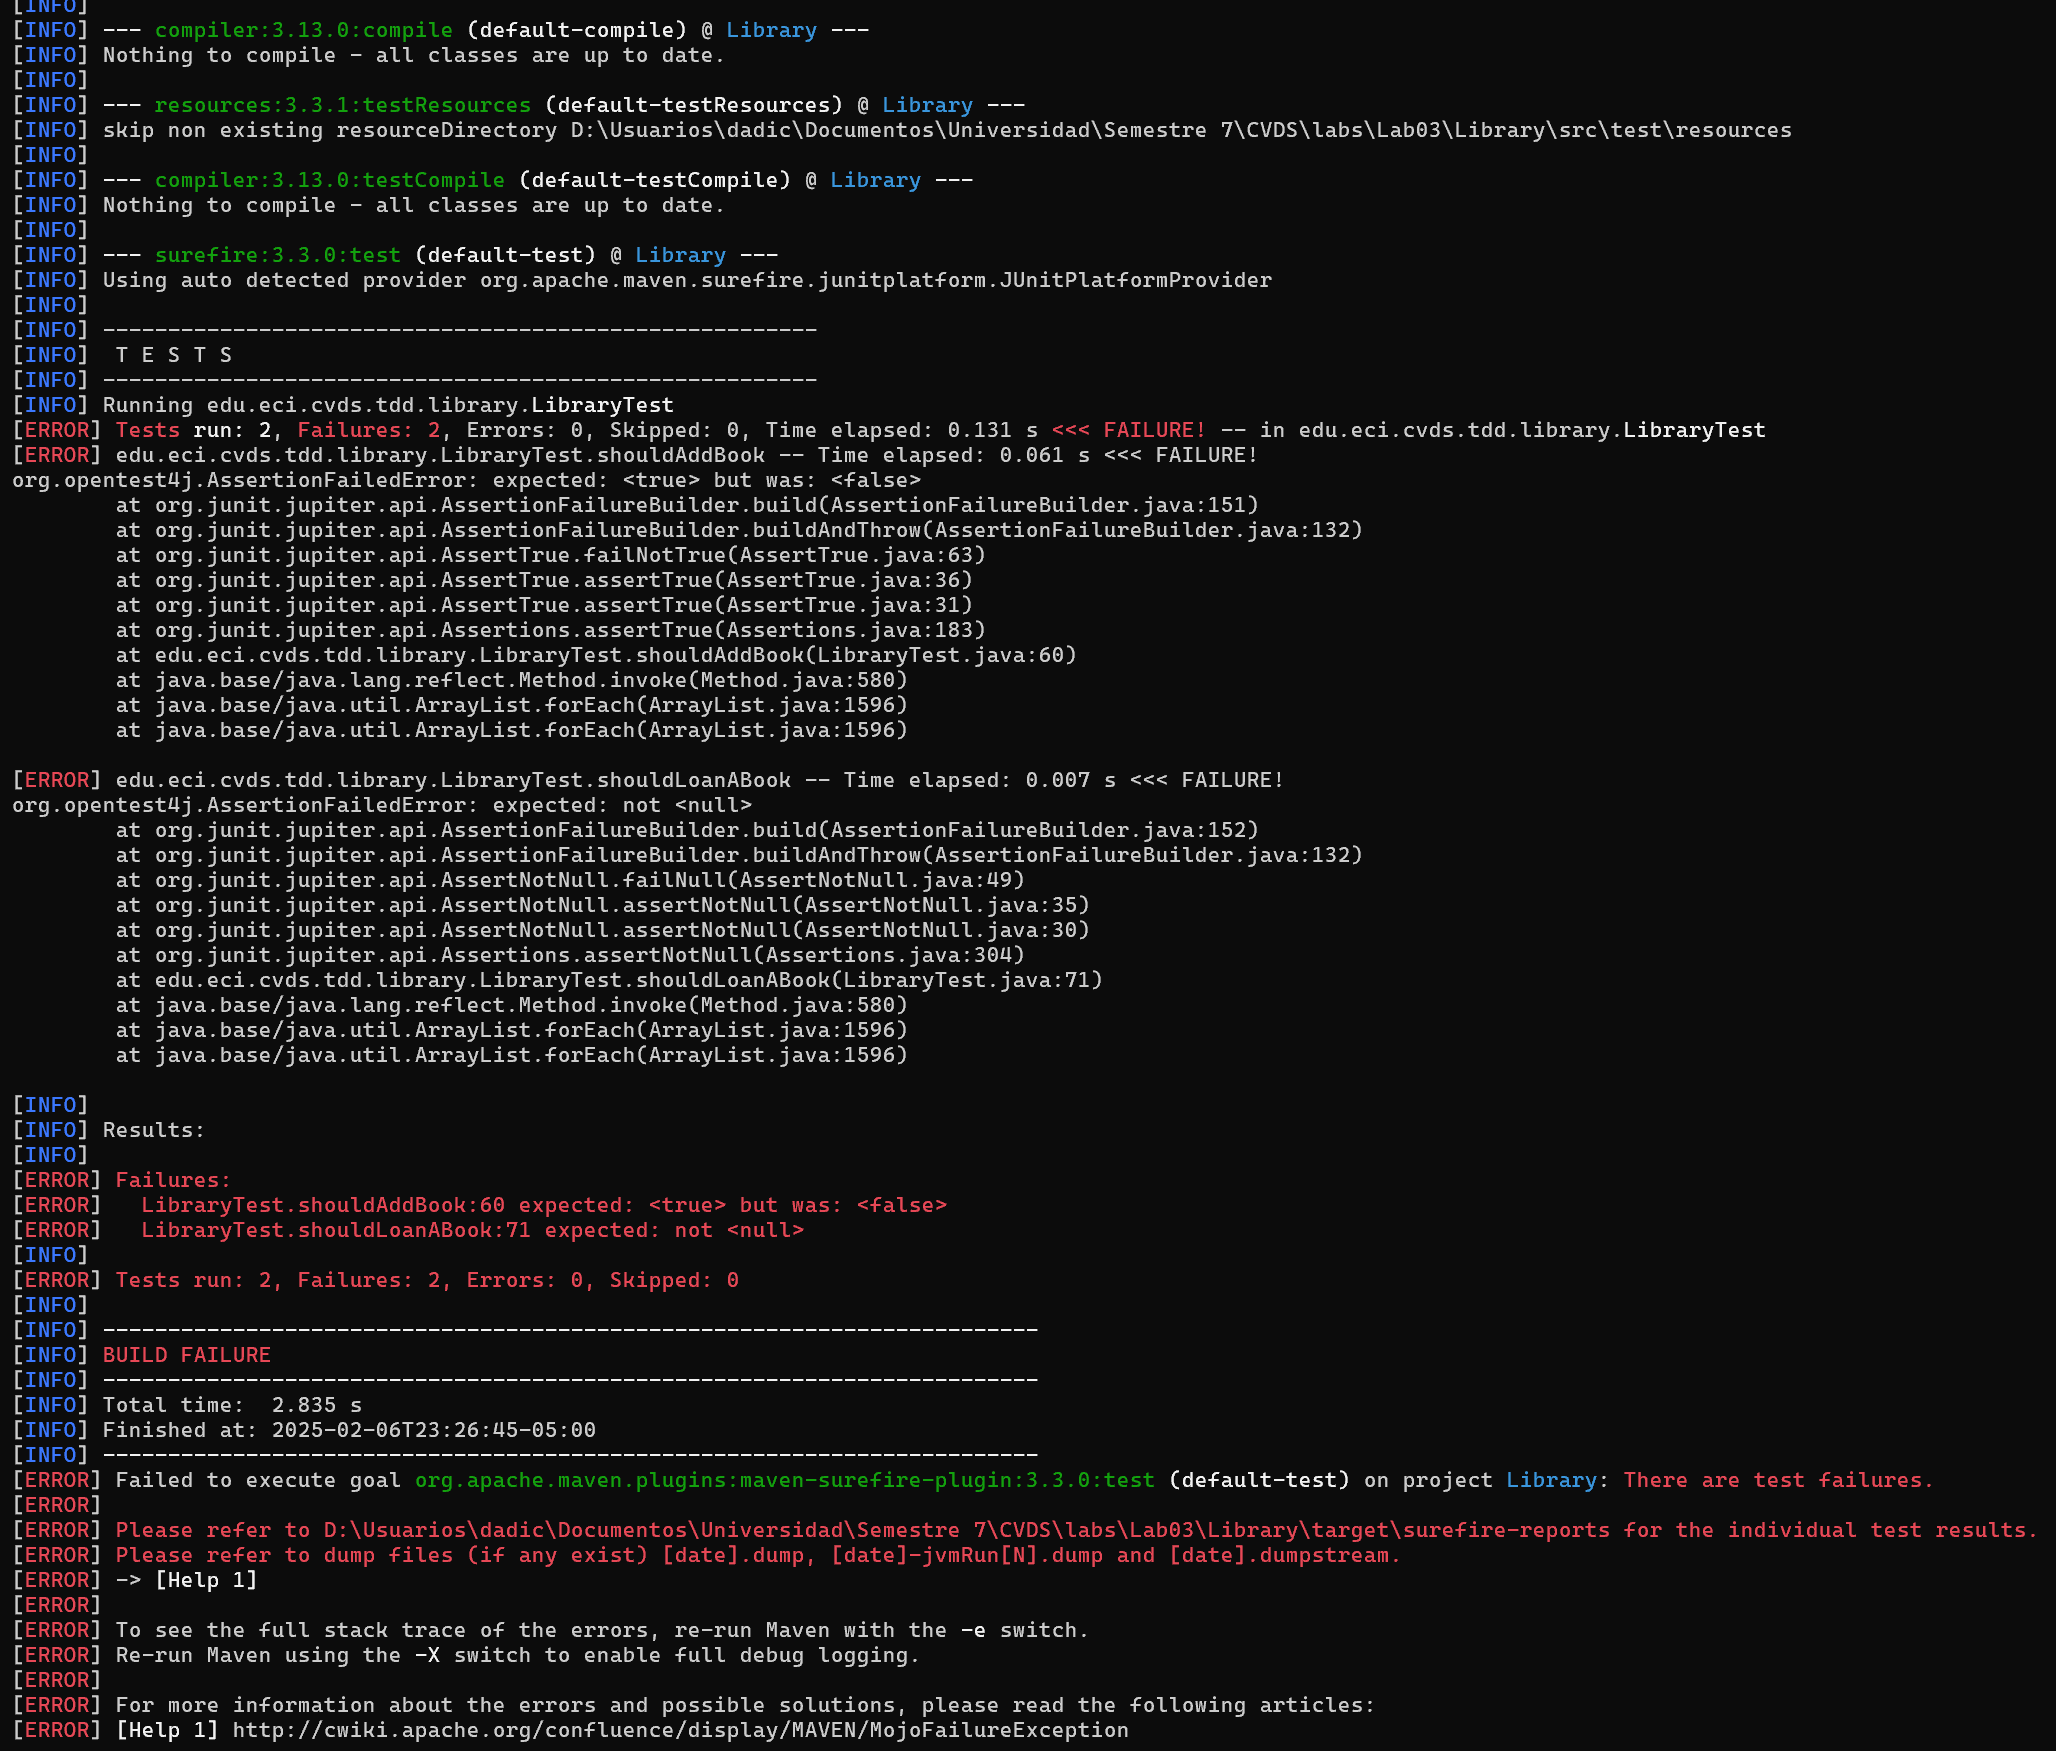
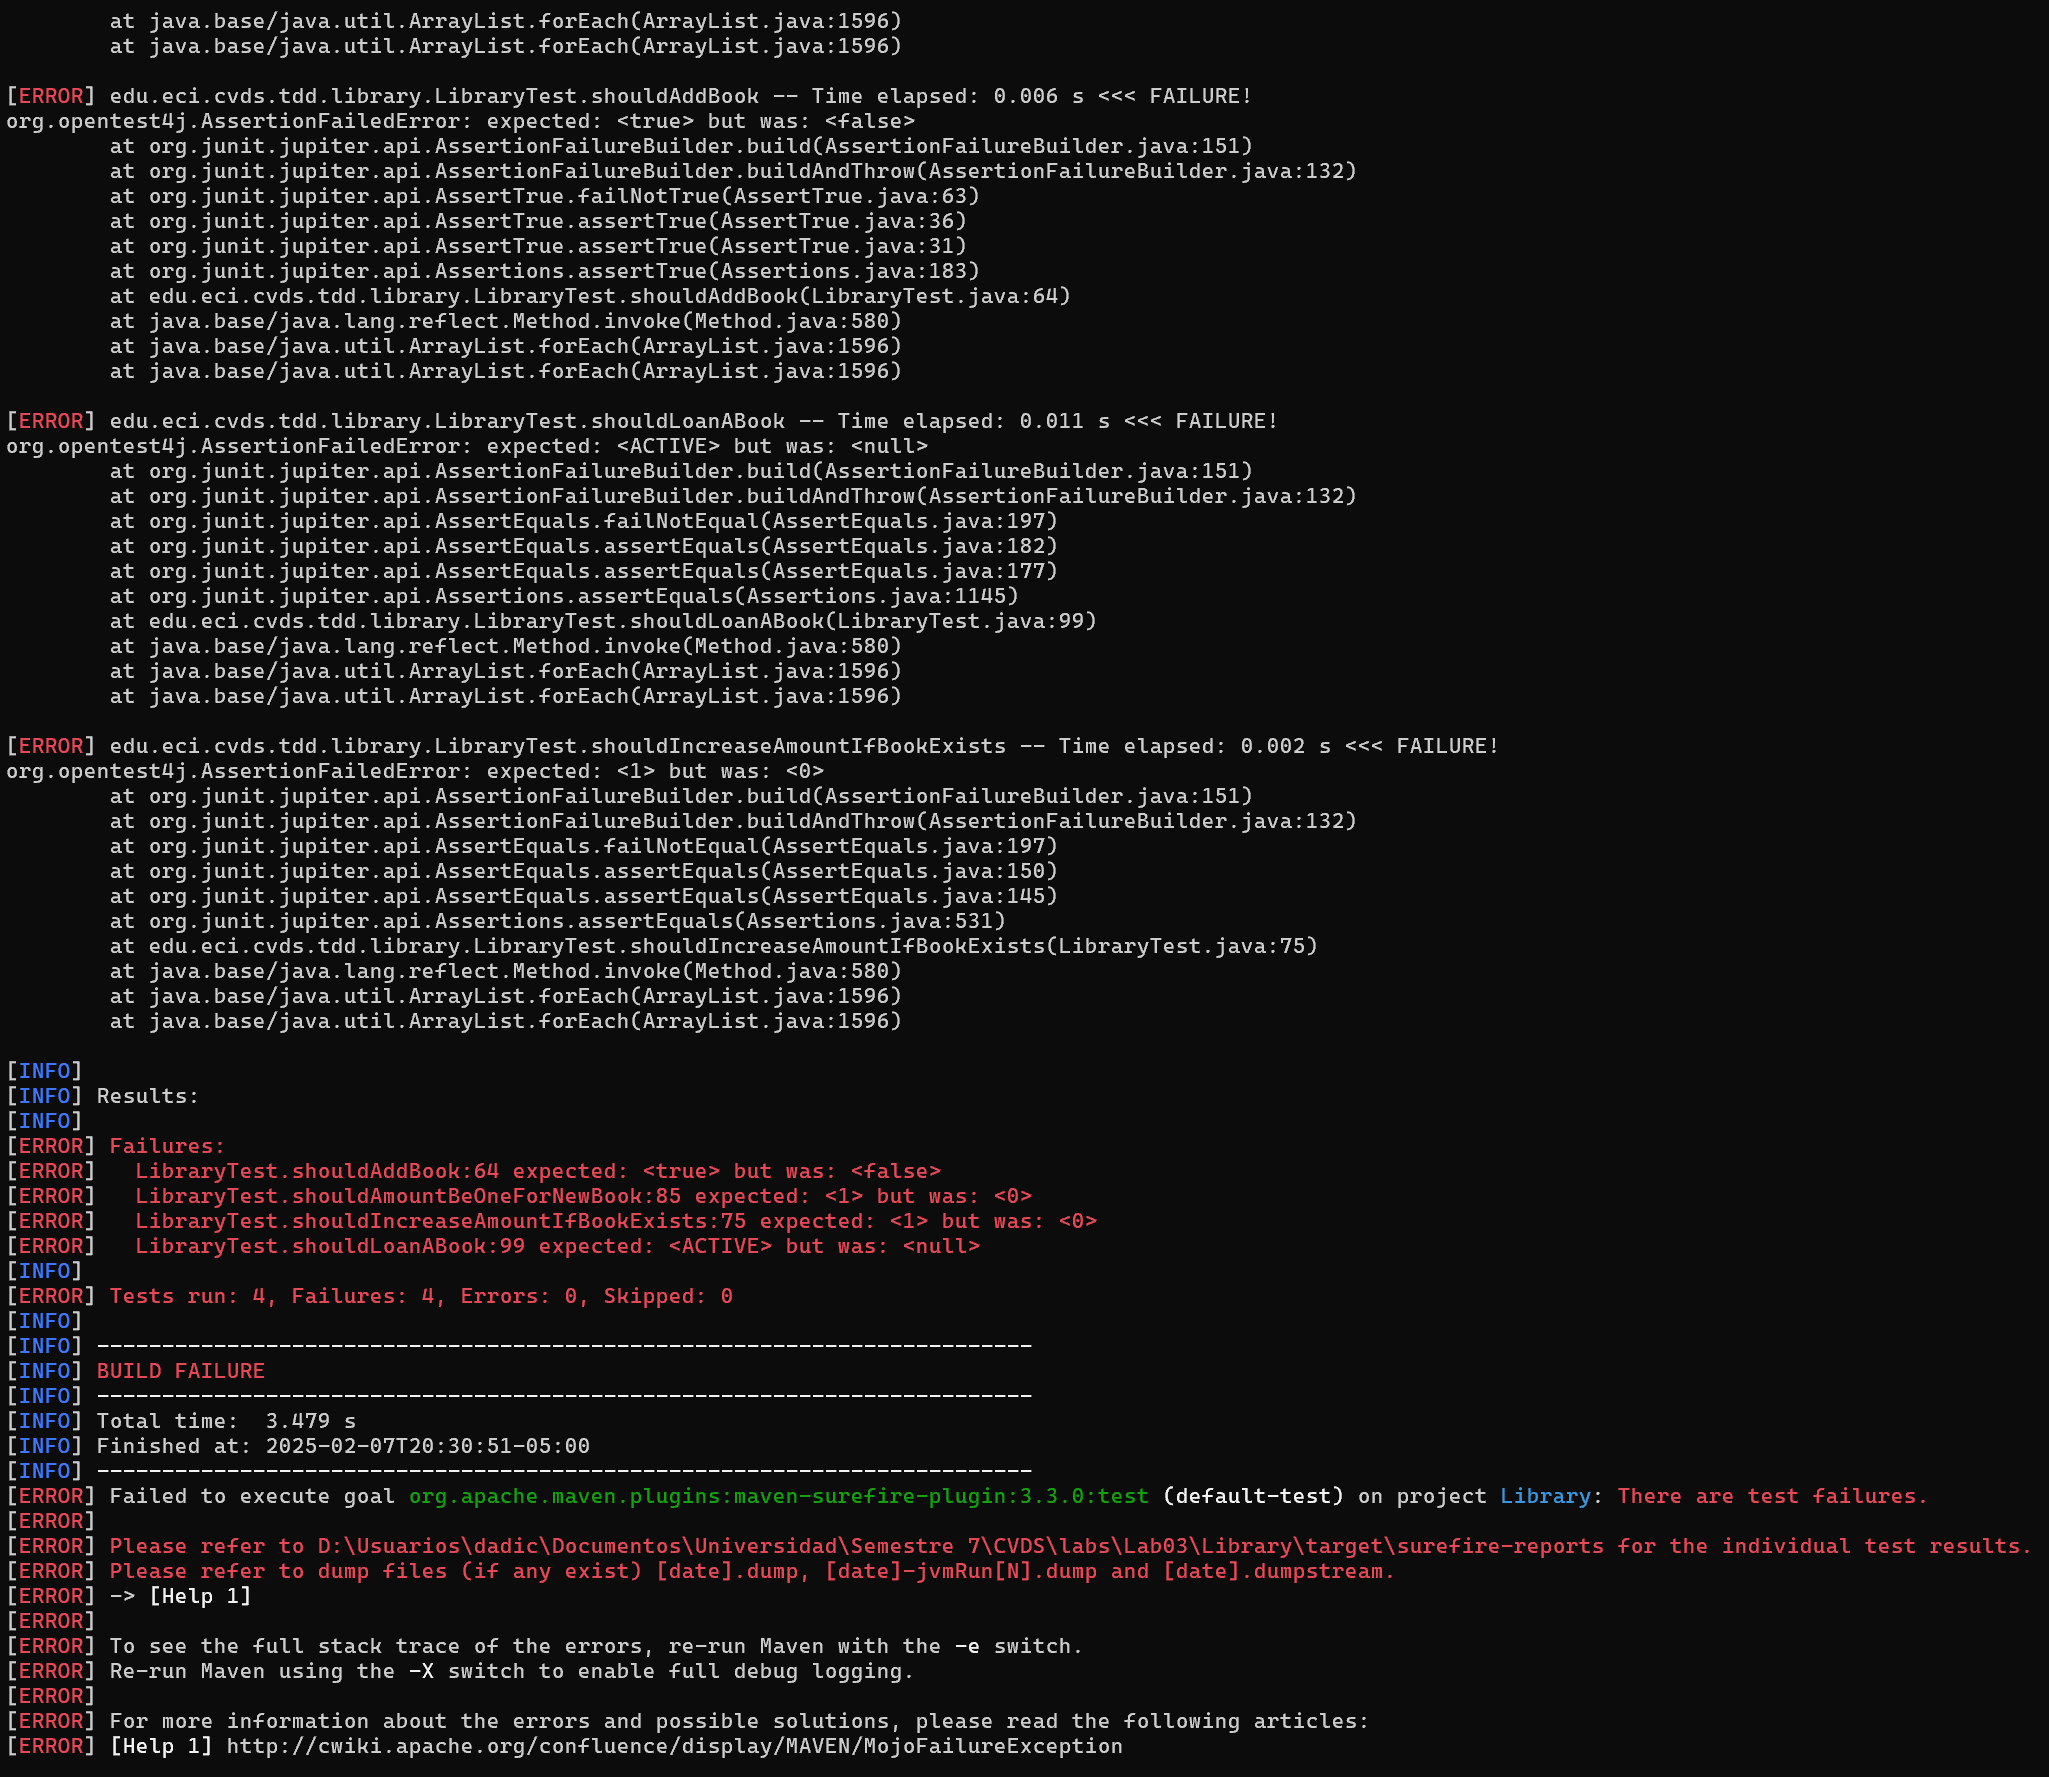
Actualice la prueba shouldLoanABook

Changed region(s): [[0.0, 0.0, 0.9995, 1.0], [0.6872, 0.4009, 0.7184, 0.4318]]

diff --git a/src/test/java/edu/eci/cvds/tdd/library/LibraryTest.java b/src/test/java/edu/eci/cvds/tdd/library/LibraryTest.java
@@ -91,22 +91,28 @@ public class LibraryTest {
         assertEquals(1,  library.getNumberBooks("978-958-30044-4-5"));
     }
 
-    // @Test
-    // public void shouldLoanABook() {
-    //     // Loan to Daniel
-    //     Loan loan1 = library.loanABook("1032373105", "978-607-99498-0-8");
-    //     assertNotNull(loan1);
-    //     assertEquals(LoanStatus.ACTIVE, loan1.getStatus());
-    //     assertEquals("1032373105", loan1.getUser().getId());
-    //     assertEquals("978-607-99498-0-8", loan1.getBook().getIsbn());
+    @Test
+    public void shouldLoanABook() {
+        // Loan to Daniel
+        Loan loan1 = library.loanABook("1032373105", "978-607-99498-0-8");
+        assertNotNull(loan1);
+        assertEquals(LoanStatus.ACTIVE, loan1.getStatus());
+        assertEquals("1032373105", loan1.getUser().getId());
+        assertEquals("978-607-99498-0-8", loan1.getBook().getIsbn());
+
+        Loan loan2 = library.loanABook("1032373105", "978-847-88871-9-4");
+        assertNotNull(loan2);
+        assertEquals(LoanStatus.ACTIVE, loan2.getStatus());
+        assertEquals("1032373105", loan2.getUser().getId());
+        assertEquals("978-847-88871-9-4", loan2.getBook().getIsbn());
         
-    //     // Loan to Vicente
-    //     Loan loan2 = library.loanABook("1028461832", "978-849-75922-0-8");
-    //     assertNotNull(loan2);
-    //     assertEquals(LoanStatus.ACTIVE, loan2.getStatus());
-    //     assertEquals("1028461832", loan2.getUser().getId());
-    //     assertEquals("978-849-75922-0-8", loan2.getBook().getIsbn());
-    // }
+        // Loan to Vicente
+        Loan loan3 = library.loanABook("1028461832", "978-849-75922-0-8");
+        assertNotNull(loan3);
+        assertEquals(LoanStatus.ACTIVE, loan3.getStatus());
+        assertEquals("1028461832", loan3.getUser().getId());
+        assertEquals("978-849-75922-0-8", loan3.getBook().getIsbn());
+    }
 
     // @Test
     // public void notShouldLoanABookIfUserNotExist() {
